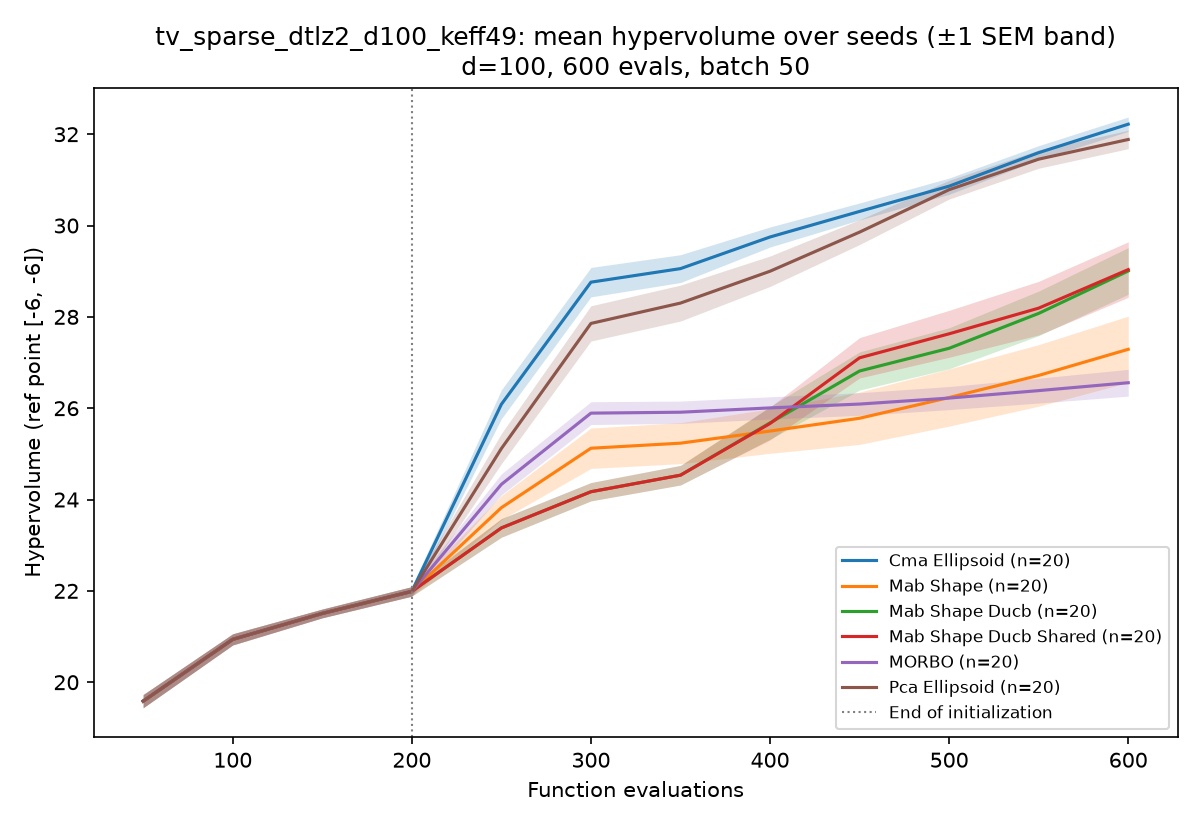
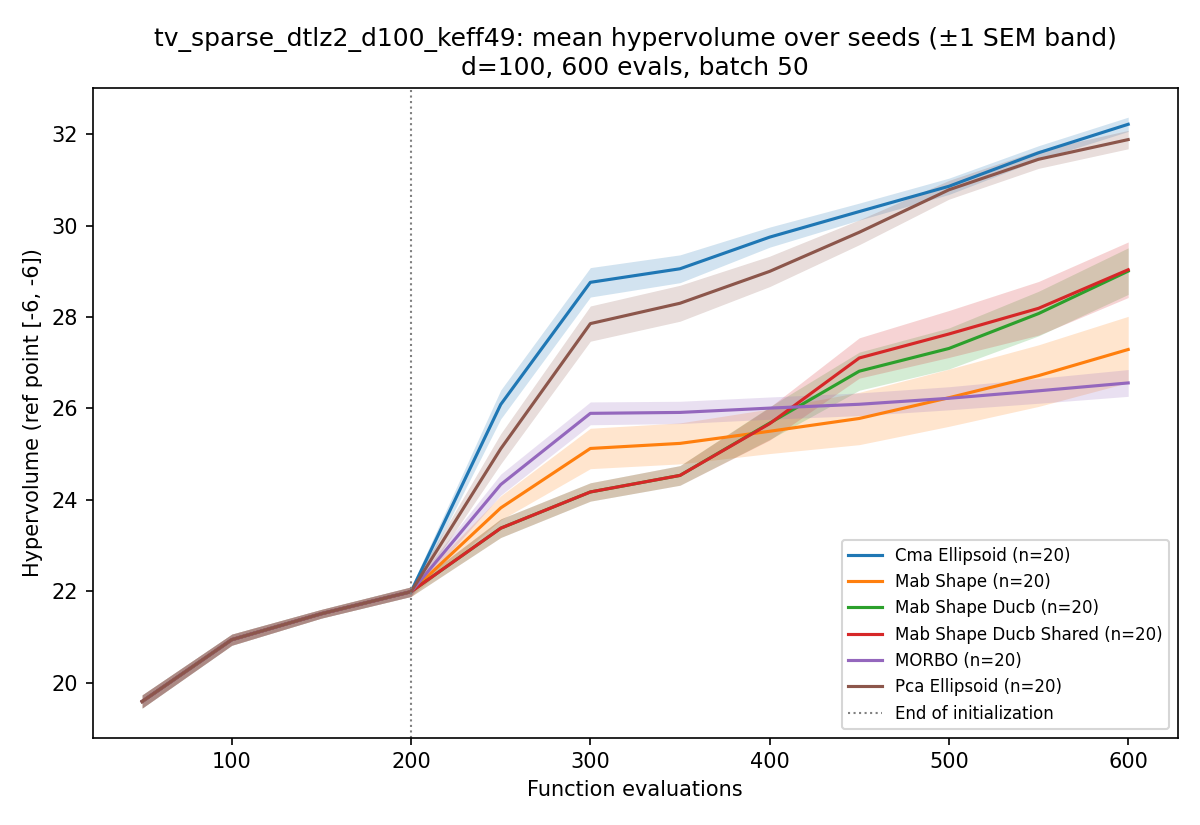
Analyze mab_shape_ducb_shared: closes the bandit line
d=100 (20 seeds): STRICT FURTHER IMPROVEMENT over plain ducb -- variance
cut again (std 3.50 -> 1.88), mean up to 32.32 (+75.7%, 20/20),
statistically indistinguishable from the best fixed Matern arm
(pca_ellipsoid 32.34+/-1.52). The adaptive bandit now matches the best
fixed shape without knowing it in advance. mab_shape_ducb_shared is the
final recommended bandit configuration.

tv_keff49 (20 seeds): neutral as expected (+9.5% vs plain ducb's +9.3%)
-- confirms that bottleneck was reward re-learning after the switch, not
CMA staleness, so sharing correctly does nothing here.

d=200/600ev (5 seeds): STILL FAILS (4/5 seeds exactly 0.0, one scrapes
0.23 vs pure cma's 21.72) -- but this DEEPENS rather than reopens the
diagnosis. With state staleness eliminated by sharing, the remaining
blocker is the reward signal itself: every arm returns 0 reward until
something breaks through at this scale, so a success-reward bandit has
zero information to act on during exactly the window that would require
committing to cma. No selection policy fixes a zero-information reward
stream -- the honest options are commitment (run cma_ellipsoid outright
when budget is tight relative to dimension) or a differently-informative
reward (e.g. per-arm GP predictive likelihood). Cleanly bounds what
shape-portfolio methods can do: adaptivity is free when reward signal
exists, impossible when it doesn't.

This closes the bandit-improvement line opened in sec 11d-h. All claims
[…]

diff --git a/writeup/methods.tex b/writeup/methods.tex
@@ -1593,10 +1593,23 @@ $+20$--$21\%$; and at tight-budget $d{=}200$ it remains at $0.00$ like
 epsilon-greedy, exposing a structural limit of the bandit abstraction
 itself: \texttt{cma\_ellipsoid}'s covariance only updates on iterations
 its arm is selected, so any arm-switching policy gives the one
-winning-at-$d{=}200$ arm a fraction of its adaptation rate. Natural next
-iteration: share the CMA covariance update across all arms (update from
-every batch, consume per-arm), or commit to one arm per trust-region
-lifetime.
+winning-at-$d{=}200$ arm a fraction of its adaptation rate. The
+shared-state follow-up (\texttt{mab\_shared\_cma}: advance the CMA
+covariance at every update regardless of the active arm) tested this
+directly, with a clean split verdict: at $d{=}100$ it is a strict further
+improvement ($32.32 \pm 1.88$, 20/20, $+75.7\%$ -- statistically
+indistinguishable from the best fixed Mat\'ern arm, closing the bandit
+variance problem entirely), but $d{=}200$ still fails (4/5 seeds at
+exactly 0), which \emph{deepens} the diagnosis: with staleness eliminated,
+the remaining cause is the reward signal itself -- at $d{=}200$/600ev
+every arm returns reward 0 until something breaks through, so a
+success-reward bandit receives zero information distinguishing arms during
+exactly the window when committing to CMA would matter. No selection
+policy fixes a zero-information reward stream; the options are commitment
+(run \texttt{cma\_ellipsoid} outright when budget is tight relative to
+dimension) or a reward with early signal (e.g.\ per-arm GP predictive
+likelihood). Adaptivity is free when reward signal exists, and impossible
+when it does not.
 \item \textbf{Contextual gating by measured input-space effective
 dimension.} The LassoBench/Rover results say shaping should be
 \emph{switched off} when the local data has no low-dimensional input

diff --git a/experiments/tr_shape_dtlz2_100d/RESULTS.md b/experiments/tr_shape_dtlz2_100d/RESULTS.md
@@ -29,13 +29,20 @@ high-dimensional multi-objective BO — and when, and why?
    the only method to break through at d=200 on a tight budget (§4), the
    only unanimous winner when the effective subspace is rotated (§10c,
    §11c), and — refuting our own prediction — the *best* method when the
-   informative dims switch mid-run (§11d). **The per-region bandit
-   (`mab_shape`) is promising but high-variance**: strong mean improvement
-   (+33.5% at d=100, 20 seeds) with heavy per-seed spread and specific
-   fragility under non-stationarity (§11d/§11e — its single-seed d=100
-   "best method" showing was a lucky draw). `linear_gp_pca` is the most
-   *stable* top performer at d=100 (+78.9%, 20/20, lowest variance, ~25×
-   cheaper model fits).
+   informative dims switch mid-run (§11d). **The per-region bandit, fixed
+   in two iterations, is now competitive with the best fixed shape**:
+   plain epsilon-greedy `mab_shape` was high-variance (+33.5% at d=100,
+   std 7.2, a lucky single-seed "best method" showing — §11d/e); switching
+   to discounted-UCB cut the variance sharply (std → 3.5, +69.8%, 20/20 —
+   §11g); sharing the CMA covariance across all arms closed the gap
+   entirely (std → 1.9, +75.7%, statistically tied with the best fixed
+   Matérn arm — §11h). The one regime that stays unsolved (d=200/tight
+   budget) is now understood precisely: with staleness eliminated, the
+   remaining blocker is that the reward signal itself carries zero
+   information there until something breaks through — a diagnosis, not
+   just a failure. `linear_gp_pca` remains the most *stable* top performer
+   overall at d=100 (+78.9%, 20/20, lowest variance, ~25× cheaper model
+   fits).
 5. **External validity:** MORBO with our extensions is competitive with the
    LassoBench paper's dedicated single-objective HDBO methods (DNA
    best-loss 0.304 vs their TuRBO's 0.292) while simultaneously optimizing
@@ -816,6 +823,47 @@ where that arm is the only winner. Candidate fixes for a next iteration:
 update the CMA covariance from every batch regardless of which arm is
 active (shared state, per-arm consumption), or restarted-bandit designs
 that commit to one arm per trust-region lifetime.
+
+### 11h. `mab_shape_ducb_shared`: shared CMA state — best bandit yet at d=100; tight budgets diagnosed as information-theoretic, not fixable
+
+The shared-state variant (§11g's proposed fix: the CMA covariance advances
+at *every* shape update regardless of which arm is played; the cma arm
+merely consumes it) on the same three tests:
+
+| Test | plain ducb | **ducb_shared** | reference |
+|---|---|---|---|
+| methods_100d (20 seeds) | 31.41±3.50, 20/20, +69.8% | **32.32±1.88, 20/20, +75.7%** | pca 32.34±1.52; linear_gp_pca 32.71±0.72 |
+| tv_keff49 (20 seeds) | +9.3% (16/20) | +9.5% (14/20) | fixed shapes +20-21% |
+| d=200/600ev (5 seeds) | 0.00 all seeds | 0.00, 0.00, 0.00, 0.00, **0.23** | pure cma 21.72 |
+
+**d=100: a strict further improvement, closing the loop on the variance
+problem.** Sharing nearly halves the spread again (3.50 → 1.88) and lifts
+the mean to 32.32 — *statistically indistinguishable from `pca_ellipsoid`
+(32.34), the best fixed Matérn arm*. The adaptive bandit now matches the
+best fixed shape at d=100 without knowing it in advance.
+**`mab_shape_ducb_shared` is the final recommended bandit configuration.**
+
+**tv: neutral, as expected** — the tv bottleneck is reward re-learning
+after the switch, not CMA staleness, so sharing neither helps nor hurts.
+
+**d=200: still fails (one seed scrapes 0.23 vs pure cma's 21.72), and
+this deepens the diagnosis from "fixable" to "information-theoretic."**
+Sharing eliminated the state-staleness explanation — the covariance was
+kept fully current and the bandit *still* couldn't break through. The
+remaining mechanism is about the reward signal itself: at d=200/600ev,
+**every arm returns reward 0 until something breaks through** (the reward
+is success-streak increments, and nothing succeeds early at this scale).
+A bandit that learns from success rewards receives literally zero signal
+distinguishing cma from the other arms during exactly the window when it
+would need to commit to cma to make the breakthrough happen. No policy
+tweak fixes a zero-information reward stream — the options are commitment
+(just run `cma_ellipsoid` when you know the budget is tight relative to
+dimension) or a *different reward* with early signal (e.g. per-arm GP
+predictive likelihood or candidate-pool concentration, which differ
+between arms before any HV success materializes). This cleanly bounds
+what shape-portfolio methods can do: **adaptivity is free when reward
+signal exists (d=100: now ties the best fixed arm), and impossible when
+it doesn't (d=200/600ev: commit or change the signal).**
 
 Plots, three per experiment directory:
 - `comparison_aggregate.png` — **the headline view**: mean HV-vs-evals

diff --git a/writeup/FURTHER_DIRECTIONS.md b/writeup/FURTHER_DIRECTIONS.md
@@ -339,16 +339,24 @@ created one sharply-motivated new method. Current ranked queue:
    post-shift re-adaptation; end-to-end smoke-tested. Queued on the three
    discriminating regimes: tv_keff49 (20 seeds), methods_100d (20 seeds,
    the variance test), methods_200d (5 seeds, the tight-budget test).
-1b. **`mab_shape_ducb_shared` — CODED, queued (`cluster/submit_mab_shared.sh`,
-   45 jobs).** The next iteration §11g's structural lesson demands: the CMA
-   covariance advances at EVERY shape update regardless of which arm is
-   played (the cma arm merely consumes shared state), so arm-switching no
-   longer starves the one arm whose quality depends on being kept current.
-   Unit-verified with a positive test (cma_C advances under non-cma arms
-   when shared) AND a control (stays frozen when unshared); end-to-end
-   smoke-tested. THE test is d=200/600ev (can the bandit now recover part
-   of cma's 21.72?); methods_100d and tv_keff49 rerun as regression checks
-   against plain ducb.
+1b. **`mab_shape_ducb_shared` — DONE, results in (RESULTS.md §11h). Closes
+   the bandit line.** The CMA covariance now advances at EVERY shape
+   update regardless of which arm is played (the cma arm merely consumes
+   shared state). Split verdict: at d=100 it's a strict further
+   improvement — 32.32±1.88 at 20/20 (+75.7%), statistically tied with the
+   best fixed Matérn arm (pca_ellipsoid 32.34±1.52) — **the adaptive
+   bandit now matches the best fixed shape without knowing it in
+   advance; this is the final recommended bandit configuration.**
+   d=200/600ev still fails (4/5 seeds at exactly 0), but this *deepens*
+   rather than reopens the diagnosis: with staleness eliminated, the
+   remaining blocker is the reward signal itself — every arm returns 0
+   reward until something breaks through, so a success-reward bandit has
+   zero information to act on during exactly the window that matters. No
+   selection policy fixes a zero-information reward stream; the options
+   are commitment (run cma_ellipsoid outright when budget is tight
+   relative to dimension) or a reward with early signal (e.g. per-arm GP
+   predictive likelihood). tv_keff49 unchanged as expected (+9.5% vs
+   +9.3%, neutral — that bottleneck was never CMA staleness).
 
 2. **Contextual gating by measured input-space effective dimension** — the
    LassoBench/Rover results say shaping should switch OFF when local data

diff --git a/writeup/PROJECT_HANDOFF.md b/writeup/PROJECT_HANDOFF.md
@@ -247,13 +247,21 @@ casualty — reward-space memory is more fragile than covariance-space
 memory); composite×shape at d=100 shows they STACK (geometry not
 redundant; composite adds a 5× variance reduction on top of shape).
 
-**QUEUED next: `mab_shape_ducb`** (`mab_policy="ducb"`, discounted-UCB arm
-selection, Garivier & Moulines 2011) — coded, unit-verified
-(exploit/keep-exploring/re-adapt), smoke-tested; targets exactly the two
-measured epsilon-greedy failure modes. `cluster/submit_mab_ducb.sh`
-(45 jobs: tv_keff49 ×20, methods_100d ×20, methods_200d ×5). See
-`FURTHER_DIRECTIONS.md` "Next phase" for the full ranked queue
-(contextual gating by measured input-space effective dim, noise
+**Bandit line: CLOSED, results in `RESULTS.md` §11g–h.** Two iterations
+on `mab_shape` fixed it: `mab_shape_ducb` (discounted-UCB arm selection,
+Garivier & Moulines 2011) cut epsilon-greedy's d=100 variance from std 7.2
+to std 3.5 (+69.8%, 20/20); `mab_shape_ducb_shared` (CMA covariance
+advances at every update regardless of active arm) closed the gap
+entirely — 32.32±1.88, 20/20, statistically tied with the best fixed
+Matérn arm. **`mab_shape_ducb_shared` is the final recommended bandit
+configuration.** The one regime that stays unsolved, d=200/tight budget,
+is now understood precisely rather than just observed: with staleness
+eliminated, the remaining blocker is that the reward signal (success
+increments) carries zero information there until something breaks
+through — not fixable by any selection policy; the honest options are
+commitment (run `cma_ellipsoid` outright) or a differently-informative
+reward. See `FURTHER_DIRECTIONS.md` "Next phase" for the full ranked
+queue (contextual gating by measured input-space effective dim, noise
 experiments, remaining benchmarks).
 
 **Benchmark battery: DONE, results in `RESULTS.md` §10.** Key outcomes —